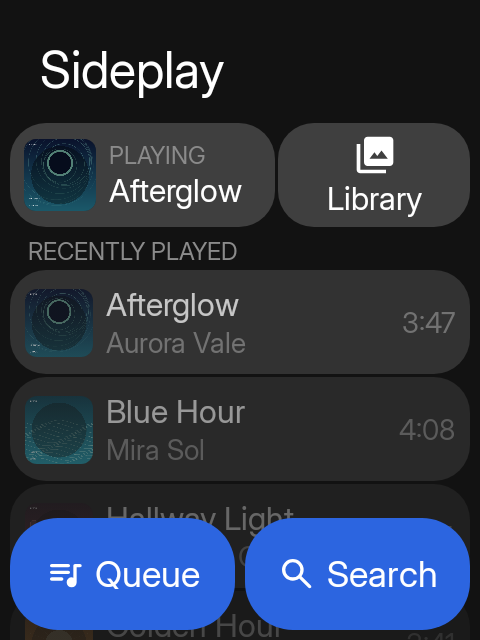
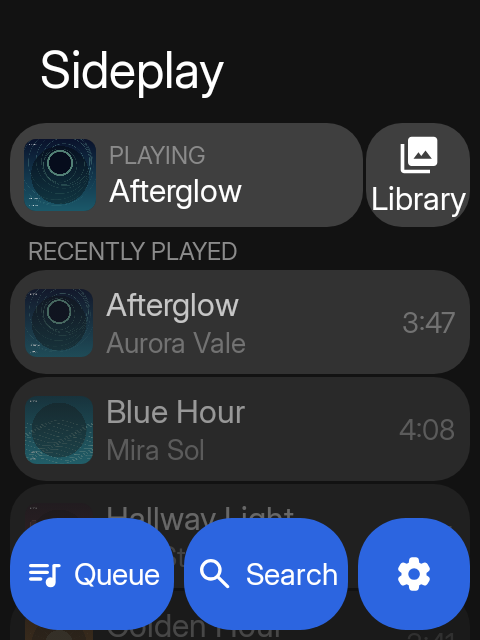
feat(sideplay): add autoplay and tidy home controls

Changed region(s): [[0.0625, 0.8125, 0.9062, 1.0], [0.6875, 0.1875, 0.9688, 0.375], [0.5312, 0.1875, 0.625, 0.375]]

diff --git a/app/src/main/java/hrln/interactive/sidekit/apps/spotify/SpotifyViewModel.kt b/app/src/main/java/hrln/interactive/sidekit/apps/spotify/SpotifyViewModel.kt
@@ -76,6 +76,7 @@ data class SpotifyUiState(
     val searchScopes: Set<SearchScope> = SearchScope.entries.toSet(),
     val query: String = "",
     val audioQuality: AudioQuality = AudioQuality.High,
+    val autoplay: Boolean = true,
     val notice: String? = null,
     val noticeKind: NoticeKind = NoticeKind.Other,
     val undo: SpotifyUndo? = null
@@ -104,6 +105,7 @@ class SpotifyViewModel(
     val undoWindow = UndoWindow(viewModelScope) { _state.update { it.copy(undo = null) } }
 
     private var searchJob: Job? = null
+    private var autoplayJob: Job? = null
     private val savedTrackTouched = mutableSetOf<String>()
     private val savedCollectionTouched = mutableSetOf<String>()
     private val followedArtistTouched = mutableSetOf<String>()
@@ -121,7 +123,9 @@ class SpotifyViewModel(
             }
             viewModelScope.launch {
                 it.settings.collect { settings ->
-                    _state.update { state -> state.copy(audioQuality = settings.audioQuality) }
+                    _state.update { state ->
+                        state.copy(audioQuality = settings.audioQuality, autoplay = settings.autoplay)
+                    }
                 }
             }
             it.playback.onNext = nextHandler
@@ -692,6 +696,12 @@ class SpotifyViewModel(
         session?.setAudioQuality(next)
     }
 
+    fun toggleAutoplay() {
+        val enabled = !_state.value.autoplay
+        _state.update { it.copy(autoplay = enabled) }
+        session?.setAutoplay(enabled)
+    }
+
     fun clearHistory() {
         history.clear()
         val snapshot = queue.clearHistory()
@@ -1132,7 +1142,7 @@ class SpotifyViewModel(
         }
         if (!hasNext && !auto) return
         if (!hasNext) {
-            _state.update { it.copy(isPlaying = false, positionMs = 0L) }
+            if (_state.value.autoplay) autoplaySimilar(current) else stopAtQueueEnd()
             return
         }
         val snapshot = queue.next(auto = true)
@@ -1143,6 +1153,49 @@ class SpotifyViewModel(
         } else {
             _state.update { it.copy(isPlaying = false, positionMs = 0L) }
         }
+    }
+
+    /**
+     * The queue ran out with Autoplay on. Ask the catalog for the current artist's top tracks,
+     * drop anything already in the queue or history, and let the normal advance path start the
+     * first one. The guard keeps a slow request from hijacking a track the user started meanwhile.
+     */
+    private fun autoplaySimilar(current: SpotifyMediaItem) {
+        if (autoplayJob?.isActive == true) return
+        val track = current as? SpotifyTrack
+        val artistId = track?.artistId?.takeIf { it.isNotBlank() }
+        if (track == null || artistId == null) {
+            stopAtQueueEnd()
+            return
+        }
+        autoplayJob = viewModelScope.launch {
+            try {
+                val artist = SpotifyArtist(artistId, track.artist, 0, emptyList())
+                val page = catalog.topTracks(artist, 0, SPOTIFY_PAGE_SIZE)
+                if (_state.value.current?.id != track.id || !_state.value.autoplay) return@launch
+                val known = buildSet {
+                    add(track.id)
+                    addAll(_state.value.history.map { it.id })
+                    addAll(_state.value.upcoming.map { it.id })
+                }
+                val similar = page.items.filter { it.id !in known && it.playable }
+                if (similar.isEmpty()) {
+                    stopAtQueueEnd()
+                    return@launch
+                }
+                val tail = if (_state.value.shuffle) similar.shuffled() else similar
+                applyQueue(queue.addToQueue(tail), syncNowPlaying = false)
+                advance(auto = true, forceContextLoop = false)
+            } catch (e: CancellationException) {
+                throw e
+            } catch (e: Exception) {
+                if (_state.value.current?.id == track.id) stopAtQueueEnd()
+            }
+        }
+    }
+
+    private fun stopAtQueueEnd() {
+        _state.update { it.copy(isPlaying = false, positionMs = 0L) }
     }
 
     /** Starts a real Spotify item; local test fixtures have no URI and keep the local simulation. */

diff --git a/app/src/main/java/hrln/interactive/sidekit/apps/spotify/SpotifySettingsScreens.kt b/app/src/main/java/hrln/interactive/sidekit/apps/spotify/SpotifySettingsScreens.kt
@@ -36,6 +36,7 @@ fun SpotifySettingsScreen(
     state: SpotifyUiState,
     onBack: () -> Unit,
     onAudioQuality: () -> Unit,
+    onAutoplay: () -> Unit,
     onClearCache: () -> Unit,
     onClearHistory: () -> Unit,
     onSignOut: () -> Unit,
@@ -97,9 +98,20 @@ fun SpotifySettingsScreen(
                     onClick = onAudioQuality
                 )
             }
+            item(key = "autoplay") {
+                SidekitItem(
+                    "Autoplay",
+                    Modifier.listFade(listState, 1),
+                    secondary = if (state.autoplay) "On" else "Off",
+                    secondaryToEnd = true,
+                    showLinkArrow = true,
+                    showLinkArrowWithSecondary = true,
+                    onClick = onAutoplay
+                )
+            }
             item(key = "streaming") {
                 SidekitCard(
-                    Modifier.listFade(listState, 1).fillMaxWidth(),
+                    Modifier.listFade(listState, 2).fillMaxWidth(),
                     color = SidekitTheme.colors.surfaceA2
                 ) {
                     Column(verticalArrangement = Arrangement.spacedBy(2.dp)) {
@@ -116,7 +128,7 @@ fun SpotifySettingsScreen(
             item(key = "cache") {
                 SidekitItem(
                     "Artwork cache",
-                    Modifier.listFade(listState, 2),
+                    Modifier.listFade(listState, 3),
                     secondary = "12 MB",
                     secondaryToEnd = true,
                     showLinkArrow = true,
@@ -127,7 +139,7 @@ fun SpotifySettingsScreen(
             item(key = "history") {
                 SidekitItem(
                     "Clear history",
-                    Modifier.listFade(listState, 3),
+                    Modifier.listFade(listState, 4),
                     secondary = "${state.history.size} tracks",
                     secondaryToEnd = true,
                     showLinkArrow = true,
@@ -138,7 +150,7 @@ fun SpotifySettingsScreen(
             item(key = "account") {
                 SidekitItem(
                     "Account",
-                    Modifier.listFade(listState, 4),
+                    Modifier.listFade(listState, 5),
                     secondary = if (state.signedIn) "Signed in" else "Not signed in",
                     secondaryToEnd = true
                 )

diff --git a/app/src/main/java/hrln/interactive/sidekit/apps/spotify/SpotifyLibraryScreens.kt b/app/src/main/java/hrln/interactive/sidekit/apps/spotify/SpotifyLibraryScreens.kt
@@ -4,6 +4,7 @@ import androidx.compose.foundation.layout.Row
 import androidx.compose.foundation.layout.RowScope
 import androidx.compose.foundation.layout.fillMaxWidth
 import androidx.compose.foundation.layout.padding
+import androidx.compose.foundation.layout.width
 import androidx.compose.foundation.lazy.itemsIndexed
 import androidx.compose.foundation.lazy.rememberLazyListState
 import androidx.compose.runtime.Composable
@@ -49,7 +50,8 @@ fun SideplayHomeScreen(
         onDismissNotice,
         listOf(
             SideAction("queue", "Queue", SidekitIcon.QueueMusic, onClick = onQueue),
-            SideAction("search", "Search", SidekitIcon.Search, motion = ActionMotion.Forward, onClick = onSearch)
+            SideAction("search", "Search", SidekitIcon.Search, motion = ActionMotion.Forward, onClick = onSearch),
+            SideAction.square("settings", SidekitIcon.Settings, "Settings", onSettings)
         ),
         state.noticeKind
     )
@@ -63,8 +65,8 @@ fun SideplayHomeScreen(
         SidekitList(padding, state = listState) {
             item(key = "tiles") {
                 SidekitItemRow(Modifier.listFade(listState, 0)) {
-                    NowPlayingTile(state.current, onNowPlaying, Modifier.weight(1.38f))
-                    LibraryTile(onLibrary, Modifier.weight(1f))
+                    NowPlayingTile(state.current, onNowPlaying, Modifier.weight(1f))
+                    LibraryTile(onLibrary, Modifier.width(SidekitTheme.spacing.itemHeight))
                 }
             }
             item(key = "recentLabel") { SectionLabel("Recently played") }
@@ -86,9 +88,6 @@ fun SideplayHomeScreen(
                         )
                     }
                 }
-            }
-            item(key = "settings") {
-                SidekitItem("Settings", Modifier.listFade(listState, recent.size + 2), showLinkArrow = true, onClick = onSettings)
             }
         }
     }

diff --git a/app/src/main/java/hrln/interactive/sidekit/apps/spotify/data/SpotifySettings.kt b/app/src/main/java/hrln/interactive/sidekit/apps/spotify/data/SpotifySettings.kt
@@ -6,7 +6,9 @@ import hrln.interactive.sidekit.apps.spotify.AudioQuality
 
 /** User preferences that survive process death and apply before the native player is created. */
 data class SpotifySettings(
-    val audioQuality: AudioQuality = AudioQuality.High
+    val audioQuality: AudioQuality = AudioQuality.High,
+    /** Keep playing similar tracks when the queue runs out. */
+    val autoplay: Boolean = true
 ) {
     val bitrateKbps: Int get() = audioQuality.bitrateKbps
 }
@@ -28,7 +30,10 @@ class SpotifySettingsStore(
         val quality = AudioQuality.entries
             .firstOrNull { it.name == value.optString(KEY_QUALITY) }
             ?: AudioQuality.High
-        return SpotifySettings(audioQuality = quality)
+        return SpotifySettings(
+            audioQuality = quality,
+            autoplay = value.optBoolean(KEY_AUTOPLAY, true)
+        )
     }
 
     @Synchronized
@@ -36,10 +41,12 @@ class SpotifySettingsStore(
         settings.write(
             org.json.JSONObject()
                 .put(KEY_QUALITY, value.audioQuality.name)
+                .put(KEY_AUTOPLAY, value.autoplay)
         )
     }
 
     private companion object {
         const val KEY_QUALITY = "audio_quality"
+        const val KEY_AUTOPLAY = "autoplay"
     }
 }

diff --git a/app/src/test/java/hrln/interactive/sidekit/apps/spotify/SpotifyQueueRepositoryTest.kt b/app/src/test/java/hrln/interactive/sidekit/apps/spotify/SpotifyQueueRepositoryTest.kt
@@ -60,6 +60,14 @@ class SpotifyQueueRepositoryTest {
         assertEquals(listOf("b", "c", "d", "z"), queue.snapshot.upcoming.map { it.id })
     }
 
+    @Test fun `adding several items appends them in order`() {
+        val queue = SpotifyQueueRepository(Random(1))
+        queue.play(tracks, 0)
+        queue.addToQueue(listOf(track("x"), track("y")))
+
+        assertEquals(listOf("b", "c", "d", "x", "y"), queue.snapshot.upcoming.map { it.id })
+    }
+
     @Test fun `next moves the current item into history`() {
         val queue = SpotifyQueueRepository(Random(1))
         queue.play(tracks, 0)

diff --git a/app/src/main/java/hrln/interactive/sidekit/apps/spotify/data/SpotifyQueueRepository.kt b/app/src/main/java/hrln/interactive/sidekit/apps/spotify/data/SpotifyQueueRepository.kt
@@ -171,7 +171,9 @@ class SpotifyQueueRepository(
         return commit(snapshot.copy(upcoming = listOf(item) + remaining))
     }
 
-    fun addToQueue(item: SpotifyMediaItem): Snapshot = commit(snapshot.copy(upcoming = snapshot.upcoming + item))
+    fun addToQueue(item: SpotifyMediaItem): Snapshot = addToQueue(listOf(item))
+
+    fun addToQueue(items: List<SpotifyMediaItem>): Snapshot = commit(snapshot.copy(upcoming = snapshot.upcoming + items))
 
     fun removeUpcoming(item: SpotifyMediaItem): Snapshot = commit(snapshot.copy(upcoming = snapshot.upcoming.filterNot { it.id == item.id }))
 

diff --git a/app/src/main/java/hrln/interactive/sidekit/apps/spotify/SpotifyGraph.kt b/app/src/main/java/hrln/interactive/sidekit/apps/spotify/SpotifyGraph.kt
@@ -262,6 +262,7 @@ fun NavGraphBuilder.sideplayGraph(nav: NavHostController) {
                 state,
                 onBack = { nav.popBackStack() },
                 onAudioQuality = vm::cycleAudioQuality,
+                onAutoplay = vm::toggleAutoplay,
                 onClearCache = vm::clearCache,
                 onClearHistory = vm::clearHistory,
                 onSignOut = {

diff --git a/app/src/main/java/hrln/interactive/sidekit/apps/spotify/data/SpotifySession.kt b/app/src/main/java/hrln/interactive/sidekit/apps/spotify/data/SpotifySession.kt
@@ -149,6 +149,11 @@ class SpotifySession(
         settingsStore?.write(_settings.value)
     }
 
+    fun setAutoplay(enabled: Boolean) {
+        _settings.update { it.copy(autoplay = enabled) }
+        settingsStore?.write(_settings.value)
+    }
+
     fun togglePlayback() {
         if (playback.isActive) {
             playback.pause()

diff --git a/app/src/test/java/hrln/interactive/sidekit/apps/spotify/SideplayScreenshotTest.kt b/app/src/test/java/hrln/interactive/sidekit/apps/spotify/SideplayScreenshotTest.kt
@@ -170,6 +170,7 @@ class SideplayScreenshotTest {
             state,
             onBack = {},
             onAudioQuality = {},
+            onAutoplay = {},
             onClearCache = {},
             onClearHistory = {},
             onSignOut = {},
